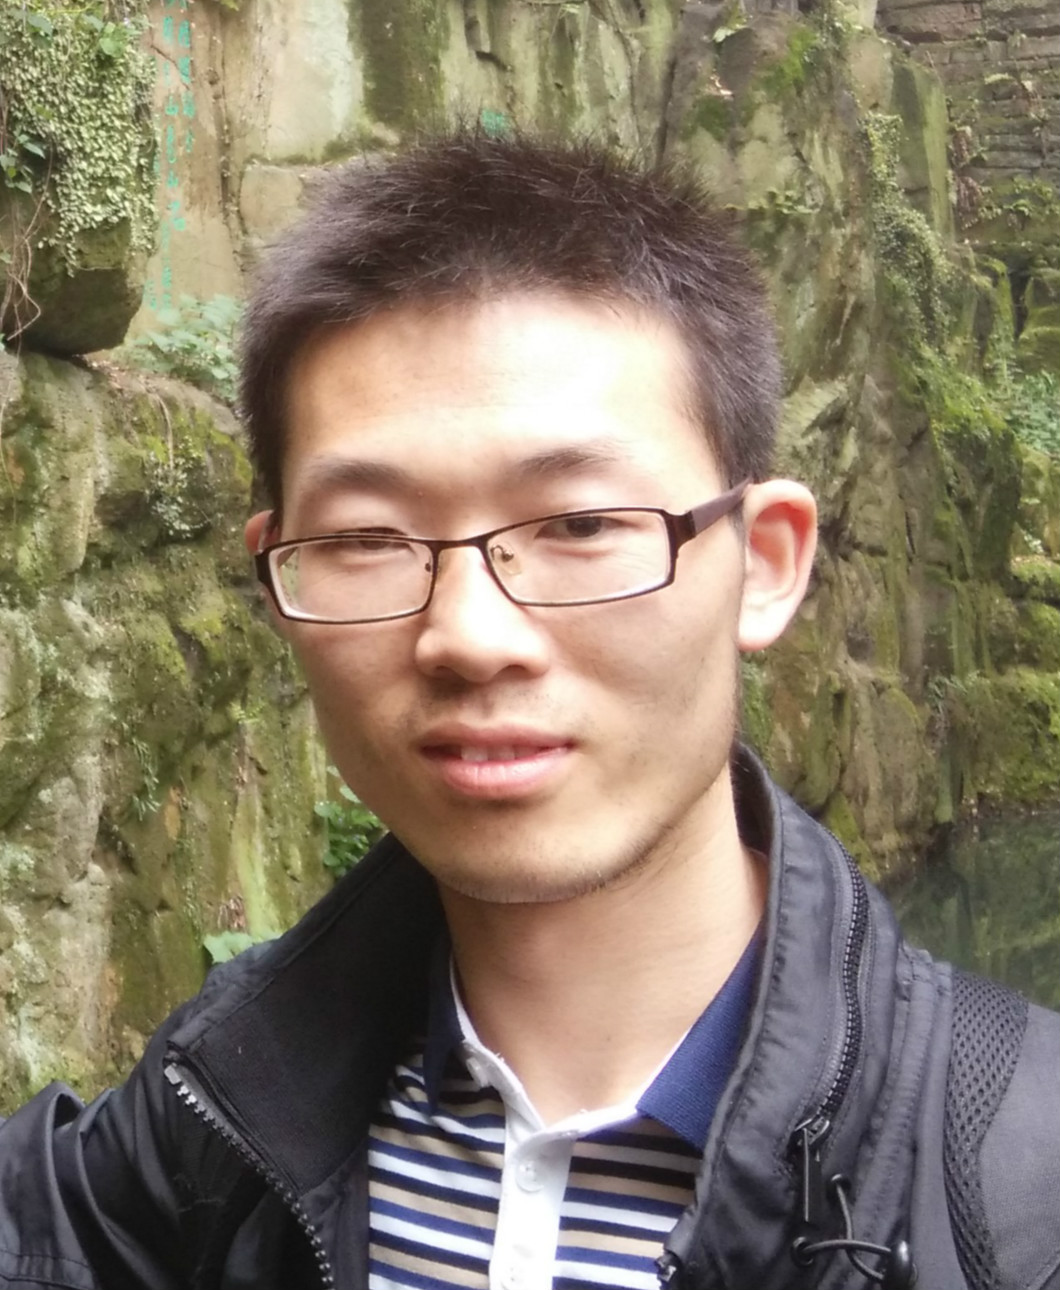
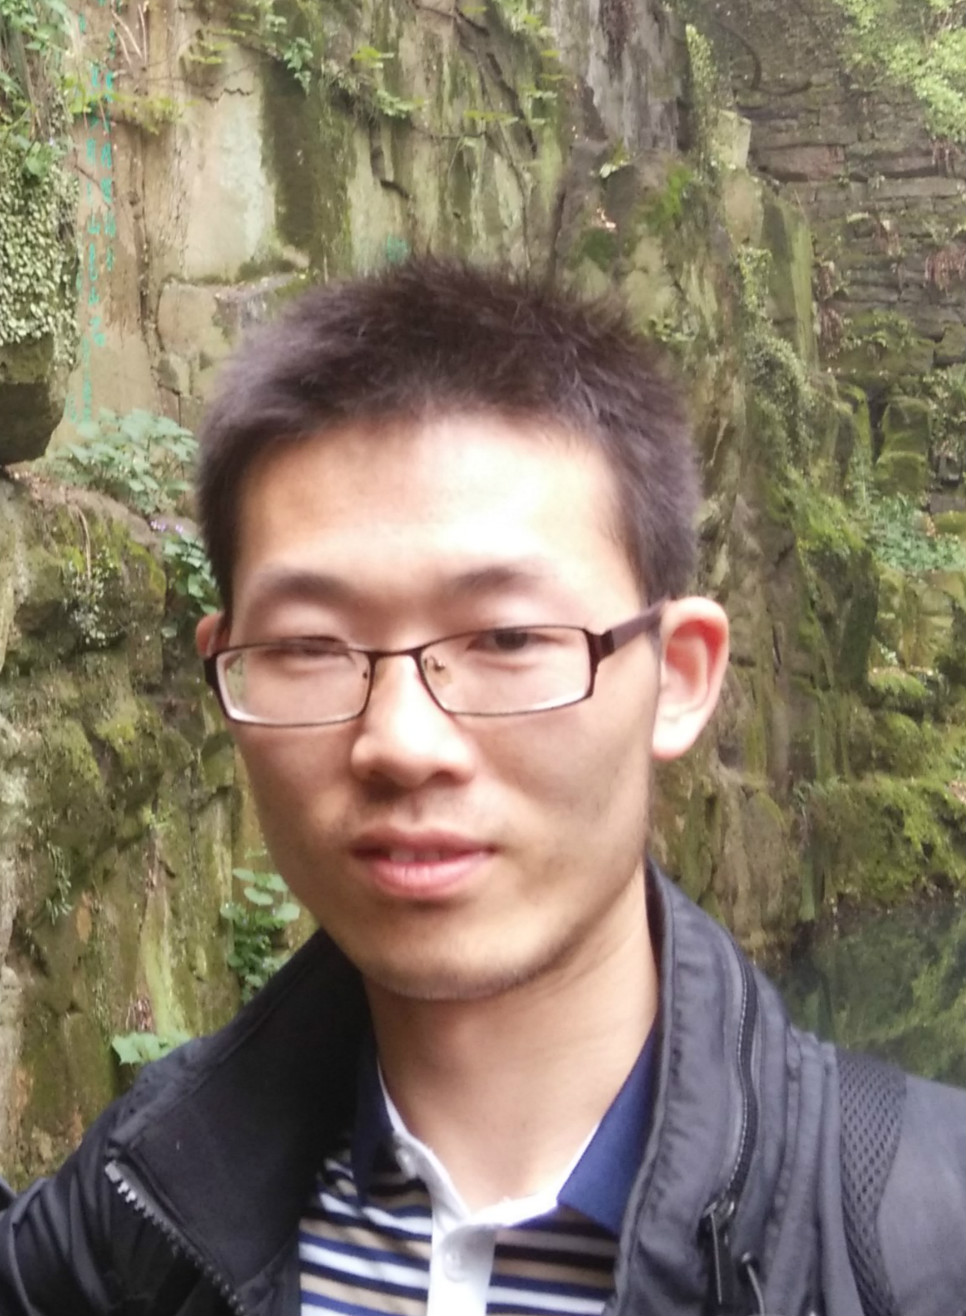
change the index

diff --git a/index.html b/index.html
@@ -16,11 +16,10 @@
 
 <body text="#00006c" style="font-family:Helvetica">
 <div class="center">
-
      <table border="0">
         <tbody><tr>  
 	    <td width="20"></td>   
-            <td height="200"> <img src="./images/figure.jpg" width="134" height="180"> </td>
+            <td height="200"> <img src="./images/photo.jpg" width="145" height="197"> </td>
             <td width="30"></td>
             <td>  	
 			<b><font size="+3">Shenghua He</font></b><br>
@@ -38,8 +37,8 @@
 			-->
             		Email: <a href="mailto:shenghh@clemson.edu">shenghh (at) clemson.edu</a><br>
            <!--/font-->
-		   </p></td><td width="100"></td>
-		   <td height="150"><a href="https://www.clemson.edu/ces/departments/ece/"><img src="./images/university.jpg" width="480" height="100"></a>
+		   </p></td><td width="200"></td>
+		   <td height="150"><a href="https://www.clemson.edu/ces/departments/ece/"><img class="center-right" src="./images/university.jpg" width="288" height="96"></a>
 		   <br><br><br>
 		   </td>		   
         </tr>
